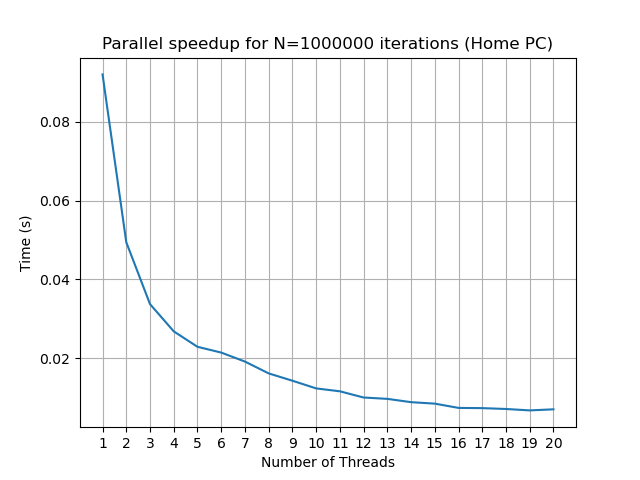
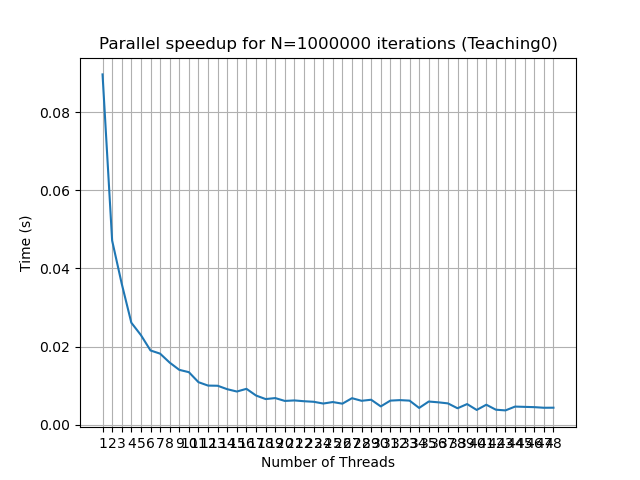
48 thread test

diff --git a/ppqs/3_ppq/analysis/graph.py b/ppqs/3_ppq/analysis/graph.py
@@ -10,6 +10,6 @@ plt.plot(x, times)
 plt.xticks(np.arange(1, len(times) + 1, 1))
 plt.xlabel("Number of Threads")
 plt.ylabel("Time (s)")
-plt.title("Parallel speedup for N=1000000 iterations (Home PC)")
+plt.title("Parallel speedup for N=1000000 iterations (Teaching0)")
 plt.grid()
 plt.savefig("./results/times_teaching0.png")
